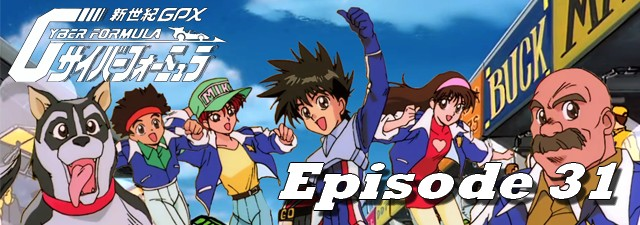
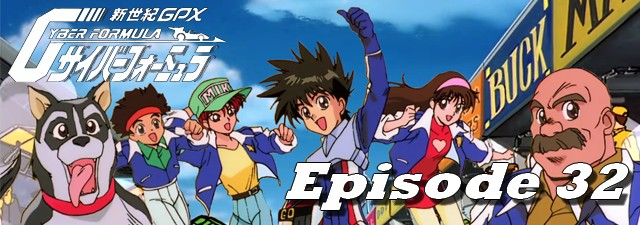
new release

Changed region(s): [[0.4375, 0.7156, 1.0, 0.9644]]

diff --git a/2016-05-29.html b/2016-05-29.html
@@ -1,0 +1,105 @@
+<!DOCTYPE html>
+<html lang="fr-FR">
+	<head>
+		<title>Future GPX Cyber Formula BD 32 vostfr | Nobluesky Fansub</title>
+		<meta charset="utf-8" />
+		<link rel="Shortcut Icon" type="image/x-icon" href="favicon.ico" />
+		<link href="fonts/fonts.css" rel="stylesheet" type="text/css" />
+		<link href="style.css" rel="stylesheet" type="text/css" media="screen" />
+		<link rel="stylesheet" href="menu.css" type="text/css" />
+		<script src="jquery.js" type="text/javascript"></script>
+		<script src="background-script.js" type="text/javascript"></script>
+	</head>
+<body>
+<div class="banner">
+	<a title="Nobluesky Fansub" href="index.html"> <img class="banner" alt="Nobluesky Fansub" title="Nobluesky Fansub" src="images/banner.png"/> </a>
+</div>
+<!-- end banner -->
+<div id="menu-wrapper">
+	<div id="menu">
+		<script type="text/javascript">
+		$( '#menu' ).load( 'menu.html' );
+		</script>
+		<noscript>Activez javascript pour voir le menu!</noscript>
+	</div>
+</div>
+<!-- end #menu -->
+<div id="page-wrapper">
+<div id="sidebar-wrapper">
+	<div id="sidebar">
+		<script type="text/javascript">
+		$( '#sidebar' ).load( 'sidebar.html' );
+		</script>
+	</div>
+	<!-- end #sidebar -->
+</div>
+	<div id="article">
+		<div id="content">
+			<div class="post">
+				<h1 class="title">Future GPX Cyber Formula BD 32 vostfr</h1>
+				<p class="meta"><span class="date">29 Mai 2016</span><span class="posted">Posté par <a href="about.html#nobluesky">Nobluesky</a></span></p>
+				<div style="clear: both;">&nbsp;</div>
+				<div class="entry">
+					<img class="post-images" src="images/2016/news20.jpg" alt="" />
+					<p>Bonjour à tous !</p>
+					<p>En ce jour maussade et orageux, je n'ai pas encore débranché mon PC ni mes autres equipements, car je devais terminer de sortir l'épisode que vous attendez avec impatience!</p>
+					<p>Bon, la dernière fois que j'ai fait ça, j'ai dû attendre trois semaines pour remplacer la box cramée, la faute à mon opérateur et à pas de chance...</p>
+					<p>Ouais, Nobluesky se cherche des excuses pour son retard !</p>
+					<p>Bon, oui, c'est vrai je l'avoue :P Voici donc la suite du Grand Prix d'Afrique. Un de mes épisodes préférés lui aussi, qui réveille en moi l'esprit des anciens Shōnens classiques mais sympathiques!</p>
+					<p>J'espère qu'il vous plaira! Bon visionnage et à bientôt.</p>
+					<p>Promis !</p>
+					<h3>Téléchargements et streaming</h3>
+					<p class="links dl"><a href="http://jheberg.net/captcha/fgpxcf-32-vostfr-bd/" class="button-dl">Jheberg</a></p>&nbsp; | &nbsp;
+					<p class="links dl"><a href="http://rutube.ru/video/5acec5c7822beab5ee415fff3591c2d2/" class="button-dl">Rutube</a></p>&nbsp; | &nbsp;
+					<p class="links dl"><a href="https://mega.nz/#!7Z1iyS5L!_MmB38T27UMaAh65vJOR5ilLDOdgPf5-jRdZgP0tTZw" class="button-dl">Mega</a></p>&nbsp; | &nbsp;
+					<p class="links dl"><a href="" class="button-dl">Openload (upload en cours)</a></p>
+					<h3>Commentaires</h3>
+					<div id="disqus_thread"></div>
+					<script type="text/javascript">
+						/* * * CONFIGURATION VARIABLES: EDIT BEFORE PASTING INTO YOUR WEBPAGE * * */
+						var disqus_shortname = 'noblueskyfansub'; // required: replace example with your forum shortname
+
+						/* * * DON'T EDIT BELOW THIS LINE * * */
+						(function() {
+							var dsq = document.createElement('script'); dsq.type = 'text/javascript'; dsq.async = true;
+							dsq.src = '//' + disqus_shortname + '.disqus.com/embed.js';
+							(document.getElementsByTagName('head')[0] || document.getElementsByTagName('body')[0]).appendChild(dsq);
+						})();
+					</script>
+					<noscript>Activez javascript pour voir les commentaires.</noscript>
+					<a href="http://disqus.com" class="dsq-brlink">commentaires propulsés par <span class="logo-disqus">Disqus</span></a>
+				</div>
+			</div>
+			<div style="clear: both;">&nbsp;</div>
+		</div>
+		<!-- end #content -->
+		<div style="clear: both;">&nbsp;</div>
+	</div>
+</div>
+<!-- end #page -->
+<script type="text/javascript">
+$(window).scroll(function() {
+    if ($(this).scrollTop() < 1000) {
+        $("#footer").hide();
+    }
+    else {
+        $("#footer").show();
+    }
+});
+$(window).scroll(function() {
+  if ($(this).scrollTop() < 1000) {
+    $("footer").slideUp();
+      }
+  else {
+    $("footer").slideDown();
+      }
+});		
+</script>
+<div id="footer">
+	<script type="text/javascript">
+	$( '#footer' ).load( 'footer.html' );
+	</script>
+</div>
+<!-- end #footer -->
+</body>
+</html>

diff --git a/index.html b/index.html
@@ -35,7 +35,7 @@
 	<div class="slider-wrapper theme-default">
 		<div class="ribbon"></div>
 		<div id="slider" class="nivoSlider">
-			<a href="2016-05-16.html"><img src="images/img02.jpg" alt="" /></a><a href="2016-05-09.html"><img src="images/img01.jpg" alt="" /></a><img src="images/img03.jpg" alt="" />
+			<a href="2016-05-29.html"><img src="images/img01.jpg" alt="" /></a><a href="2016-05-16.html"><img src="images/img02.jpg" alt="" /></a><img src="images/img03.jpg" alt="" />
 		</div>
 	</div>
 <script type="text/javascript">
@@ -59,6 +59,19 @@
 				<div style="clear: both;">&nbsp;</div>
 				<div class="entry">
 					<p>On recherche toujours un correcteur !<br><a href="2016-05-09_2.html" >=> Intéressé(e) ? Allez lire ceci ! <=</a></p>
+				</div>
+			</div>
+			<div class="post">
+				<h1 class="title"><a href="2016-05-29.html">Future GPX Cyber Formula BD 32 vostfr</a></h1>
+				<p class="meta"><span class="date">29 Mai 2016</span><span class="posted">Posté par <a href="about.html#nobluesky">Nobluesky</a></span></p>
+				<p><a href="http://nobluesub.com/2016-05-29.html#disqus_thread">Commentaires</a></p>
+				<div style="clear: both;">&nbsp;</div>
+				<div class="entry">
+					<img class="post-images" src="images/2016/news20.jpg" alt="" />
+					<p>Bonjour à tous !</p>
+					<p>En ce jour maussade et orageux, je n'ai pas encore débranché mon PC ni mes autres equipements, car je devais terminer de sortir l'épisode que vous attendez avec impatience!</p>
+					<p>Bon, la dernière fois que j'ai fait ça...</p>
+					<p class="links"><a href="2016-05-29.html" class="button">Lire la suite</a></p>
 				</div>
 			</div>
 			<div class="post">
@@ -108,20 +121,6 @@
 					<p>Après maintes péripéties sans intérêt, voici la suite! Nous vous remercions de votre fidélité et espérons vous revoir chez la Nobluesky Fans... Euh non, c'est pas ça!</p>
 					<p>Bonne rigolade comme d'habitude...</p>
 					<p class="links"><a href="2016-04-25.html" class="button">Lire la suite</a></p>
-				</div>
-			</div>
-			<div class="post">
-				<h1 class="title"><a href="2016-03-29.html">Future GPX Cyber Formula BD 30 vostfr</a></h1>
-				<p class="meta"><span class="date">29 Mars 2016</span><span class="posted">Posté par <a href="about.html#nobluesky">Nobluesky</a></span></p>
-				<p><a href="http://nobluesub.com/2016-03-29.html#disqus_thread">Commentaires</a></p>
-				<div style="clear: both;">&nbsp;</div>
-				<div class="entry">
-					<img class="post-images" src="images/2016/news15.jpg" alt="" />
-					<p>Bonsoir à tous,</p>
-					<p>Enfin la suite avec cet épisode 30!</p>
-					<p>Vous vous languissiez de mes news pourraves et sans classe depuis un moment?<br>Me voilà avec cet épisode, et pas n'importe lequel car c'est le trentième de la série.</p>
-					<p>Ce qui veut dire qu'il n'en reste que sept à traduire. J'ai donc une bonne chance d'arriver au bout de la série, commencée il y a...</p>
-					<p class="links"><a href="2016-03-29.html" class="button">Lire la suite</a></p>
 				</div>
 			</div>
 			<div id="button-page-wrapper">

diff --git a/page2.html b/page2.html
@@ -31,7 +31,7 @@
 	<div class="slider-wrapper theme-default">
 		<div class="ribbon"></div>
 		<div id="slider" class="nivoSlider">
-			<a href="2016-05-16.html"><img src="images/img02.jpg" alt="" /></a><a href="2016-05-09.html"><img src="images/img01.jpg" alt="" /></a><img src="images/img03.jpg" alt="" />
+			<a href="2016-05-29.html"><img src="images/img01.jpg" alt="" /></a><a href="2016-05-16.html"><img src="images/img02.jpg" alt="" /></a><img src="images/img03.jpg" alt="" />
 		</div>
 	</div>
 <script type="text/javascript">
@@ -50,6 +50,20 @@
 </div>
 	<div id="feed">
 		<div id="content">
+			<div class="post">
+				<h1 class="title"><a href="2016-03-29.html">Future GPX Cyber Formula BD 30 vostfr</a></h1>
+				<p class="meta"><span class="date">29 Mars 2016</span><span class="posted">Posté par <a href="about.html#nobluesky">Nobluesky</a></span></p>
+				<p><a href="http://nobluesub.com/2016-03-29.html#disqus_thread">Commentaires</a></p>
+				<div style="clear: both;">&nbsp;</div>
+				<div class="entry">
+					<img class="post-images" src="images/2016/news15.jpg" alt="" />
+					<p>Bonsoir à tous,</p>
+					<p>Enfin la suite avec cet épisode 30!</p>
+					<p>Vous vous languissiez de mes news pourraves et sans classe depuis un moment?<br>Me voilà avec cet épisode, et pas n'importe lequel car c'est le trentième de la série.</p>
+					<p>Ce qui veut dire qu'il n'en reste que sept à traduire. J'ai donc une bonne chance d'arriver au bout de la série, commencée il y a...</p>
+					<p class="links"><a href="2016-03-29.html" class="button">Lire la suite</a></p>
+				</div>
+			</div>
 			<div class="post">
 				<h1 class="title"><a href="2016-03-19.html">Teekyuu Saison 7 Ep 1 à 4 vostfr</a></h1>
 				<p class="meta"><span class="date">19 Mars 2016</span><span class="posted">Posté par <a href="about.html#nobluesky">Nobluesky</a></span></p>
@@ -101,19 +115,6 @@
 					<p>Et effectivement, une pause avec un petit thé, ça ne fait jamais de mal. On ne facture pas la toppissitude ni la séductivité!</p>
 					<p>Comme d'habitude, n'hésitez pas à signaler la moindre erreur qui...</p>
 					<p class="links"><a href="2016-02-29.html" class="button">Lire la suite</a></p>
-				</div>
-			</div>
-			<div class="post">
-				<h1 class="title"><a href="2016-02-21.html">Teekyuu Saison 6 Ep 5 à 8 vostfr</a></h1>
-				<p class="meta"><span class="date">21 Février 2016</span><span class="posted">Posté par <a href="about.html#nobluesky">Nobluesky</a></span></p>
-				<p><a href="http://nobluesub.com/2016-02-21.html#disqus_thread">Commentaires</a></p>
-				<div style="clear: both;">&nbsp;</div>
-				<div class="entry">
-					<img class="post-images" src="images/2016/news10.jpg" alt="" />
-					<p>Salut la compagnie!</p>
-					<p>Attention, les épisodes de cette semaine sont particulièrement délirants. Ça remue les zygomatiques!</p>
-					<p>Allez, profitez bien!</p>
-					<p class="links"><a href="2016-02-21.html" class="button">Lire la suite</a></p>
 				</div>
 			</div>
 			<div id="button-page-wrapper">

diff --git a/future-gpx-cyber-formula.html b/future-gpx-cyber-formula.html
@@ -206,6 +206,12 @@
 					<p class="links dl"><a href="https://rutube.ru/video/1504d731e9e84b9cd8d374ada3838d37/" class="button-dl">Rutube</a></p>&nbsp; | &nbsp;
 					<p class="links dl"><a href="https://mega.nz/#!2Bdk2BLL!eyRI0KrNP5KngOG-s2n60v_NYdAmH69-trTco2fgzMQ" class="button-dl">Mega</a></p>&nbsp; | &nbsp;
 					<p class="links dl"><a href="https://openload.co/f/0Z1soQXByPM/%5BNobluesub%5D_Future_GPX_Cyber_Formula_-_31_HD_%28960x720_x264%29.mp4" class="button-dl">Openload</a></p>
+					<br>
+					Episode 32 :
+					<p class="links dl"><a href="http://jheberg.net/captcha/fgpxcf-32-vostfr-bd/" class="button-dl">Jheberg</a></p>&nbsp; | &nbsp;
+					<p class="links dl"><a href="http://rutube.ru/video/5acec5c7822beab5ee415fff3591c2d2/" class="button-dl">Rutube</a></p>&nbsp; | &nbsp;
+					<p class="links dl"><a href="https://mega.nz/#!7Z1iyS5L!_MmB38T27UMaAh65vJOR5ilLDOdgPf5-jRdZgP0tTZw" class="button-dl">Mega</a></p>&nbsp; | &nbsp;
+					<p class="links dl"><a href="" class="button-dl">Openload (upload en cours)</a></p>
 					
 					<h4>Version SD (640x480) non remasterisée (abandonnée)</h4>
 					Episode 01 : 

diff --git a/archives.html b/archives.html
@@ -46,6 +46,7 @@
 					<div>
 					<!-- here comes spoiler content -->
 					<div style="clear: both;">&nbsp;</div>
+					<p><a href="2016-02-21.html" target="_blank" >Teekyuu Saison 6 Ep 5 à 8 vostfr</a></p>
 					<p><a href="2016-02-14.html" target="_blank" >Future GPX Cyber Formula BD 27 vostfr</a></p>
 					<p><a href="2016-02-05.html" target="_blank" >Teekyuu Saison 6 Ep 1 à 4 vostfr</a></p>
 					<p><a href="2016-01-31.html" target="_blank" >Future GPX Cyber Formula BD 26 vostfr</a></p>

diff --git a/sidebar.html b/sidebar.html
@@ -29,9 +29,9 @@
 		<li>
 			<h2>Avancements</h2>
 			<ul>
-				<li>Future GPX Cyber Formula BD 32 : 80%
+				<li>Future GPX Cyber Formula BD 32 : 100%
 					<div class="progress-bar blue stripes" title="Progression" >
-					<span style="width: 80%"></span>
+					<span style="width: 100%"></span>
 					</div>
 				</li>
 			</ul>
